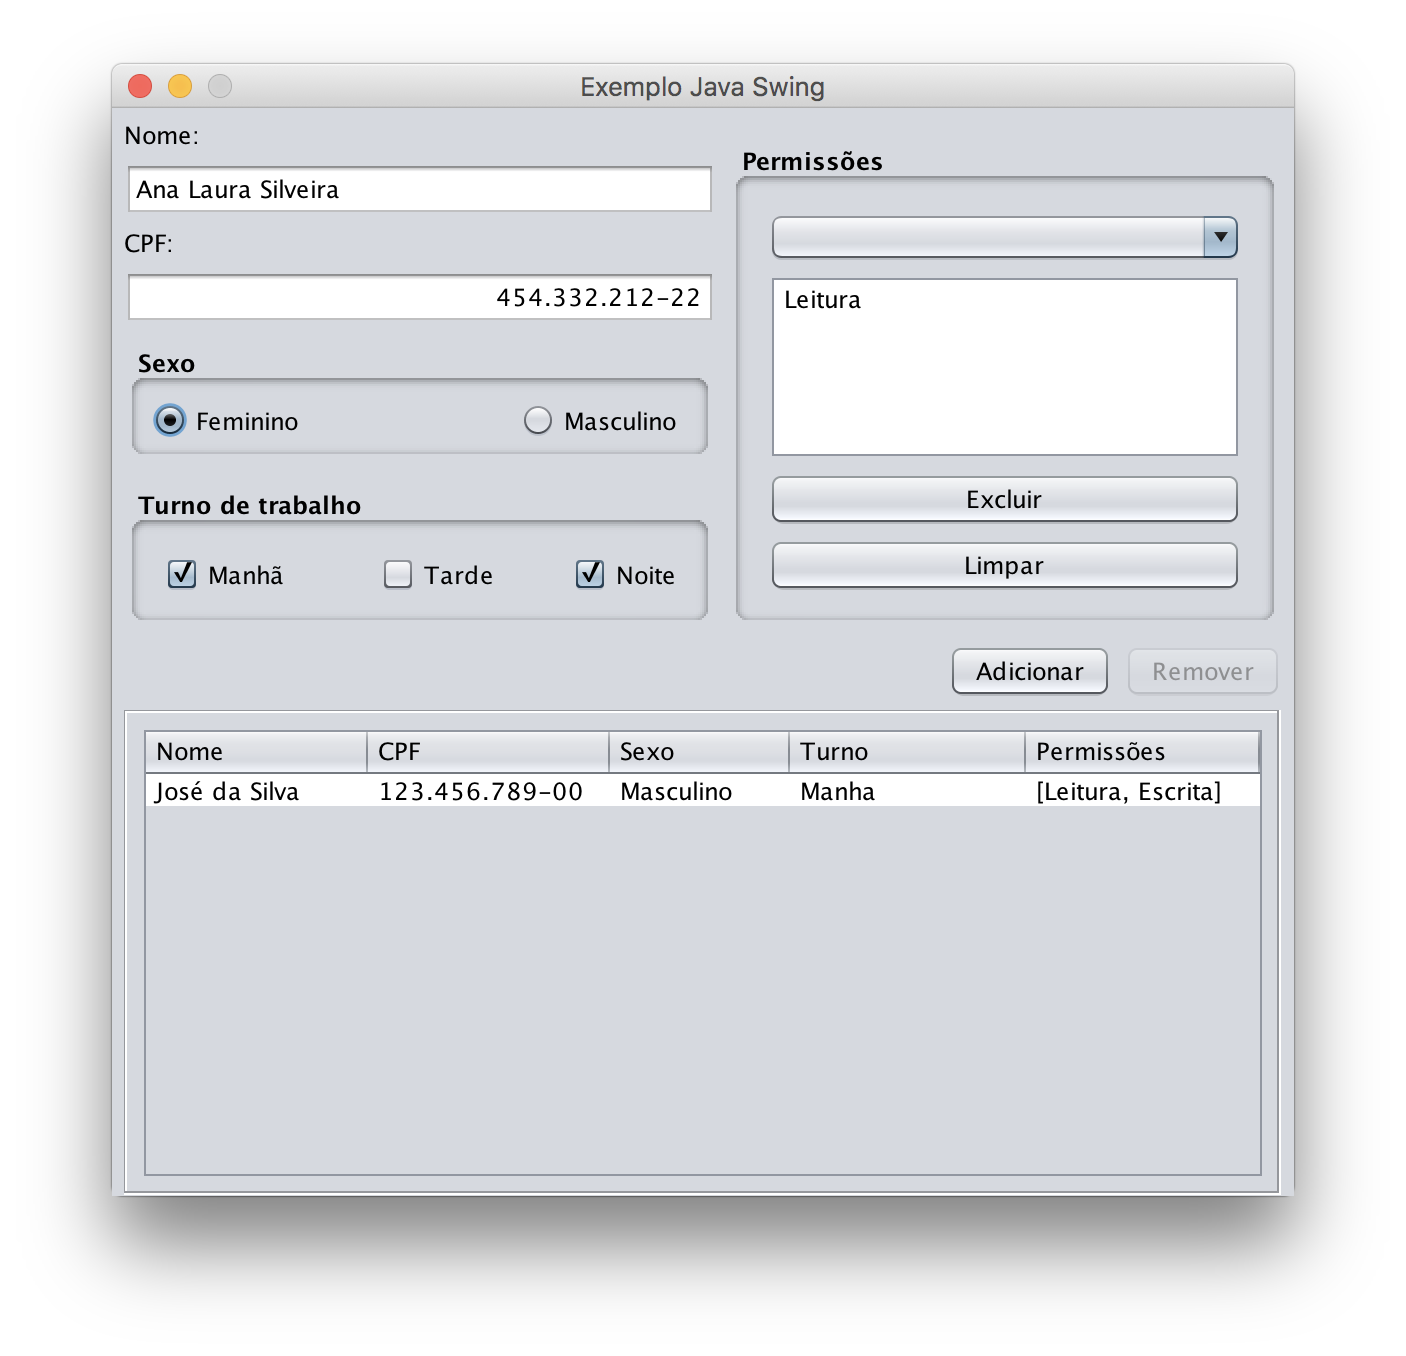
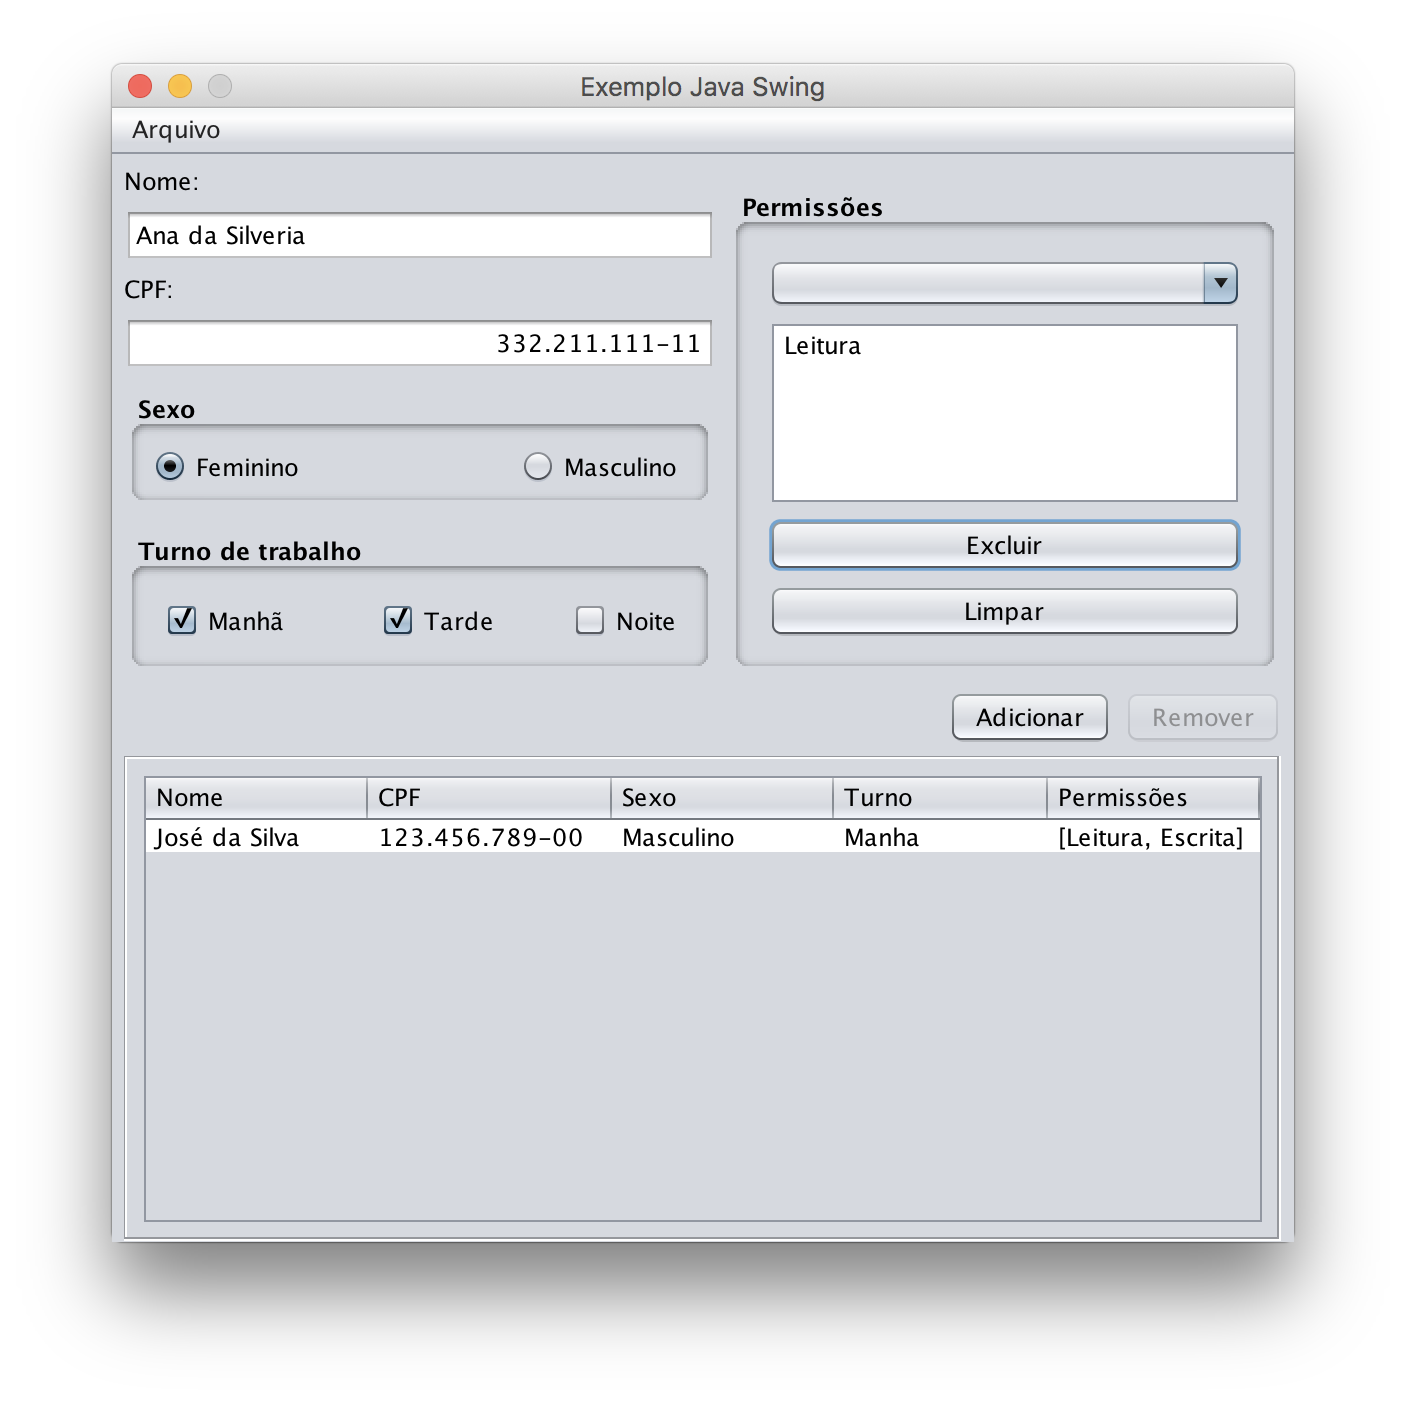
Adição de menu e diálogo para abrir arquivos

Changed region(s): [[0.0612, 0.031, 0.9175, 0.6195], [0.0917, 0.8673, 0.9175, 0.8982]]

diff --git a/src/poo/Principal.java b/src/poo/Principal.java
@@ -1,14 +1,18 @@
 package poo;
 
+import java.io.File;
 import javax.swing.DefaultListModel;
+import javax.swing.JFileChooser;
+import javax.swing.JOptionPane;
 import javax.swing.table.DefaultTableModel;
 
 /**
- * Projeto exemplo para conhecer alguns componentes do Swing, seus eventos e propriedades
- * 
- * Esse projeto está incompleto e o aluno precisaria fazer os ajustes finais para 
- * que a aplicação fique correta.
- * 
+ * Projeto exemplo para conhecer alguns componentes do Swing, seus eventos e
+ * propriedades
+ *
+ * Esse projeto está incompleto e o aluno precisaria fazer os ajustes finais
+ * para que a aplicação fique correta.
+ *
  * @author Emerson Ribeiro de Mello
  */
 public class Principal extends javax.swing.JFrame {
@@ -17,7 +21,7 @@ public class Principal extends javax.swing.JFrame {
         initComponents();
         // O Frame será desenhado no centro da área de trabalho
         this.setLocationRelativeTo(null);
-        
+
         // Ou altera as propriedades do componente JList no editor de propriedades
         // do Netbeans ou faz por meio da linha abaixo
         //jLPermissoes.setModel(new DefaultListModel<>());
@@ -55,6 +59,12 @@ public class Principal extends javax.swing.JFrame {
         jScrollPane2 = new javax.swing.JScrollPane();
         jTableUsuarios = new javax.swing.JTable();
         jBAdicionar = new javax.swing.JButton();
+        jMenuBar1 = new javax.swing.JMenuBar();
+        jMenu1 = new javax.swing.JMenu();
+        jMIAbrir = new javax.swing.JMenuItem();
+        jMISalvar = new javax.swing.JMenuItem();
+        jSeparator1 = new javax.swing.JPopupMenu.Separator();
+        jMISair = new javax.swing.JMenuItem();
 
         setDefaultCloseOperation(javax.swing.WindowConstants.EXIT_ON_CLOSE);
         setTitle("Exemplo Java Swing");
@@ -240,6 +250,36 @@ public class Principal extends javax.swing.JFrame {
             }
         });
 
+        jMenu1.setText("Arquivo");
+
+        jMIAbrir.setMnemonic('A');
+        jMIAbrir.setText("Abrir");
+        jMIAbrir.addActionListener(new java.awt.event.ActionListener() {
+            public void actionPerformed(java.awt.event.ActionEvent evt) {
+                jMIAbrirActionPerformed(evt);
+            }
+        });
+        jMenu1.add(jMIAbrir);
+
+        jMISalvar.setMnemonic('S');
+        jMISalvar.setText("Salvar");
+        jMISalvar.setToolTipText("");
+        jMenu1.add(jMISalvar);
+        jMenu1.add(jSeparator1);
+
+        jMISair.setMnemonic('r');
+        jMISair.setText("Sair");
+        jMISair.addActionListener(new java.awt.event.ActionListener() {
+            public void actionPerformed(java.awt.event.ActionEvent evt) {
+                jMISairActionPerformed(evt);
+            }
+        });
+        jMenu1.add(jMISair);
+
+        jMenuBar1.add(jMenu1);
+
+        setJMenuBar(jMenuBar1);
+
         javax.swing.GroupLayout layout = new javax.swing.GroupLayout(getContentPane());
         getContentPane().setLayout(layout);
         layout.setHorizontalGroup(
@@ -297,18 +337,18 @@ public class Principal extends javax.swing.JFrame {
 
 
     private void jCBPermissoesActionPerformed(java.awt.event.ActionEvent evt) {//GEN-FIRST:event_jCBPermissoesActionPerformed
-        
+
         // obtendo o índice do item selecionado
         int index = jCBPermissoes.getSelectedIndex();
-        
+
         if (index >= 0) {
             String permissao = jCBPermissoes.getItemAt(index);
 
             // adicionando elemento selecionado na lista
             DefaultListModel<String> modeloLista = (DefaultListModel<String>) jLPermissoes.getModel();
-            
+
             // só adiciona se o elemento não estiver na lista
-            if (! modeloLista.contains(permissao)){
+            if (!modeloLista.contains(permissao)) {
                 modeloLista.addElement(permissao);
             }
 
@@ -327,52 +367,66 @@ public class Principal extends javax.swing.JFrame {
     }//GEN-LAST:event_jBLimparActionPerformed
 
     private void jBExcluirActionPerformed(java.awt.event.ActionEvent evt) {//GEN-FIRST:event_jBExcluirActionPerformed
-        
+
         DefaultListModel<String> modeloLista = (DefaultListModel<String>) jLPermissoes.getModel();
-        
+
         // percorrendo as linhas e as removendo
-        for(String item : jLPermissoes.getSelectedValuesList()){
+        for (String item : jLPermissoes.getSelectedValuesList()) {
             modeloLista.removeElement(item);
         }
     }//GEN-LAST:event_jBExcluirActionPerformed
 
     private void jBAdicionarActionPerformed(java.awt.event.ActionEvent evt) {//GEN-FIRST:event_jBAdicionarActionPerformed
-        
-        
+
         DefaultTableModel modelo = (DefaultTableModel) jTableUsuarios.getModel();
         String linha[] = new String[5];
         linha[0] = jTFNome.getText();
         linha[1] = jFTFCpf.getText();
-        linha[2] =  (jRBFeminino.isSelected()) ? "Feminino " : "Masculino";
-        
-        if (jCBManha.isSelected()){
+        linha[2] = (jRBFeminino.isSelected()) ? "Feminino " : "Masculino";
+
+        if (jCBManha.isSelected()) {
             linha[3] = "Manha";
             // precisa terminar de fazer a lógica
         }
 
         DefaultListModel<String> modeloLista = (DefaultListModel<String>) jLPermissoes.getModel();
-        
+
         linha[4] = modeloLista.toString();
-        
+
         modelo.addRow(linha);
-        
+
         // limpando todos os campos
         jTFNome.setText("");
         // ..... falta fazer para os demais
-        
+
         //mudando o foco do teclado para o campo Nome
         jTFNome.requestFocus();
-        
-        
+
+
     }//GEN-LAST:event_jBAdicionarActionPerformed
 
     private void jTableUsuariosMouseReleased(java.awt.event.MouseEvent evt) {//GEN-FIRST:event_jTableUsuariosMouseReleased
-        
+
         // habilitando o botão que permitirá remover as linhas selecionadas
         jBRemover.setEnabled(true);
-        
+
     }//GEN-LAST:event_jTableUsuariosMouseReleased
 
+    private void jMISairActionPerformed(java.awt.event.ActionEvent evt) {//GEN-FIRST:event_jMISairActionPerformed
+        // feche a aplicação
+        System.exit(0);
+    }//GEN-LAST:event_jMISairActionPerformed
+
+    private void jMIAbrirActionPerformed(java.awt.event.ActionEvent evt) {//GEN-FIRST:event_jMIAbrirActionPerformed
+        JFileChooser fc = new JFileChooser();
+        int retorno = fc.showOpenDialog(this);
+        
+        // se um arquivo foi selecionado, exiba um messageDialog
+        if (retorno == JFileChooser.APPROVE_OPTION) {
+            File arquivo = fc.getSelectedFile();
+            JOptionPane.showMessageDialog(this, arquivo.getName(), "O arquivo selecionado foi:", JOptionPane.INFORMATION_MESSAGE);
+        }
+    }//GEN-LAST:event_jMIAbrirActionPerformed
     /**
      * @param args the command line arguments
      */
@@ -422,6 +476,11 @@ public class Principal extends javax.swing.JFrame {
     private javax.swing.JList<String> jLPermissoes;
     private javax.swing.JLabel jLabel1;
     private javax.swing.JLabel jLabel2;
+    private javax.swing.JMenuItem jMIAbrir;
+    private javax.swing.JMenuItem jMISair;
+    private javax.swing.JMenuItem jMISalvar;
+    private javax.swing.JMenu jMenu1;
+    private javax.swing.JMenuBar jMenuBar1;
     private javax.swing.JPanel jPanel1;
     private javax.swing.JPanel jPanel2;
     private javax.swing.JPanel jPanel3;
@@ -430,6 +489,7 @@ public class Principal extends javax.swing.JFrame {
     private javax.swing.JRadioButton jRBMasculino;
     private javax.swing.JScrollPane jScrollPane1;
     private javax.swing.JScrollPane jScrollPane2;
+    private javax.swing.JPopupMenu.Separator jSeparator1;
     private javax.swing.JTextField jTFNome;
     private javax.swing.JTable jTableUsuarios;
     // End of variables declaration//GEN-END:variables

diff --git a/Readme.md b/Readme.md
@@ -2,7 +2,7 @@
 
 
 
-Nessa aplicação são apresentados alguns componentes do Java Swing, seus eventos e propriedades. A aplicação é um esqueleto funcional no qual o aluno precisa terminar a implementação.
+Nessa aplicação são apresentados alguns componentes do Java Swing, seus eventos e propriedades. A aplicação é um esqueleto funcional (projeto Netbeans) no qual o aluno precisa terminar a implementação.
 
 
 
